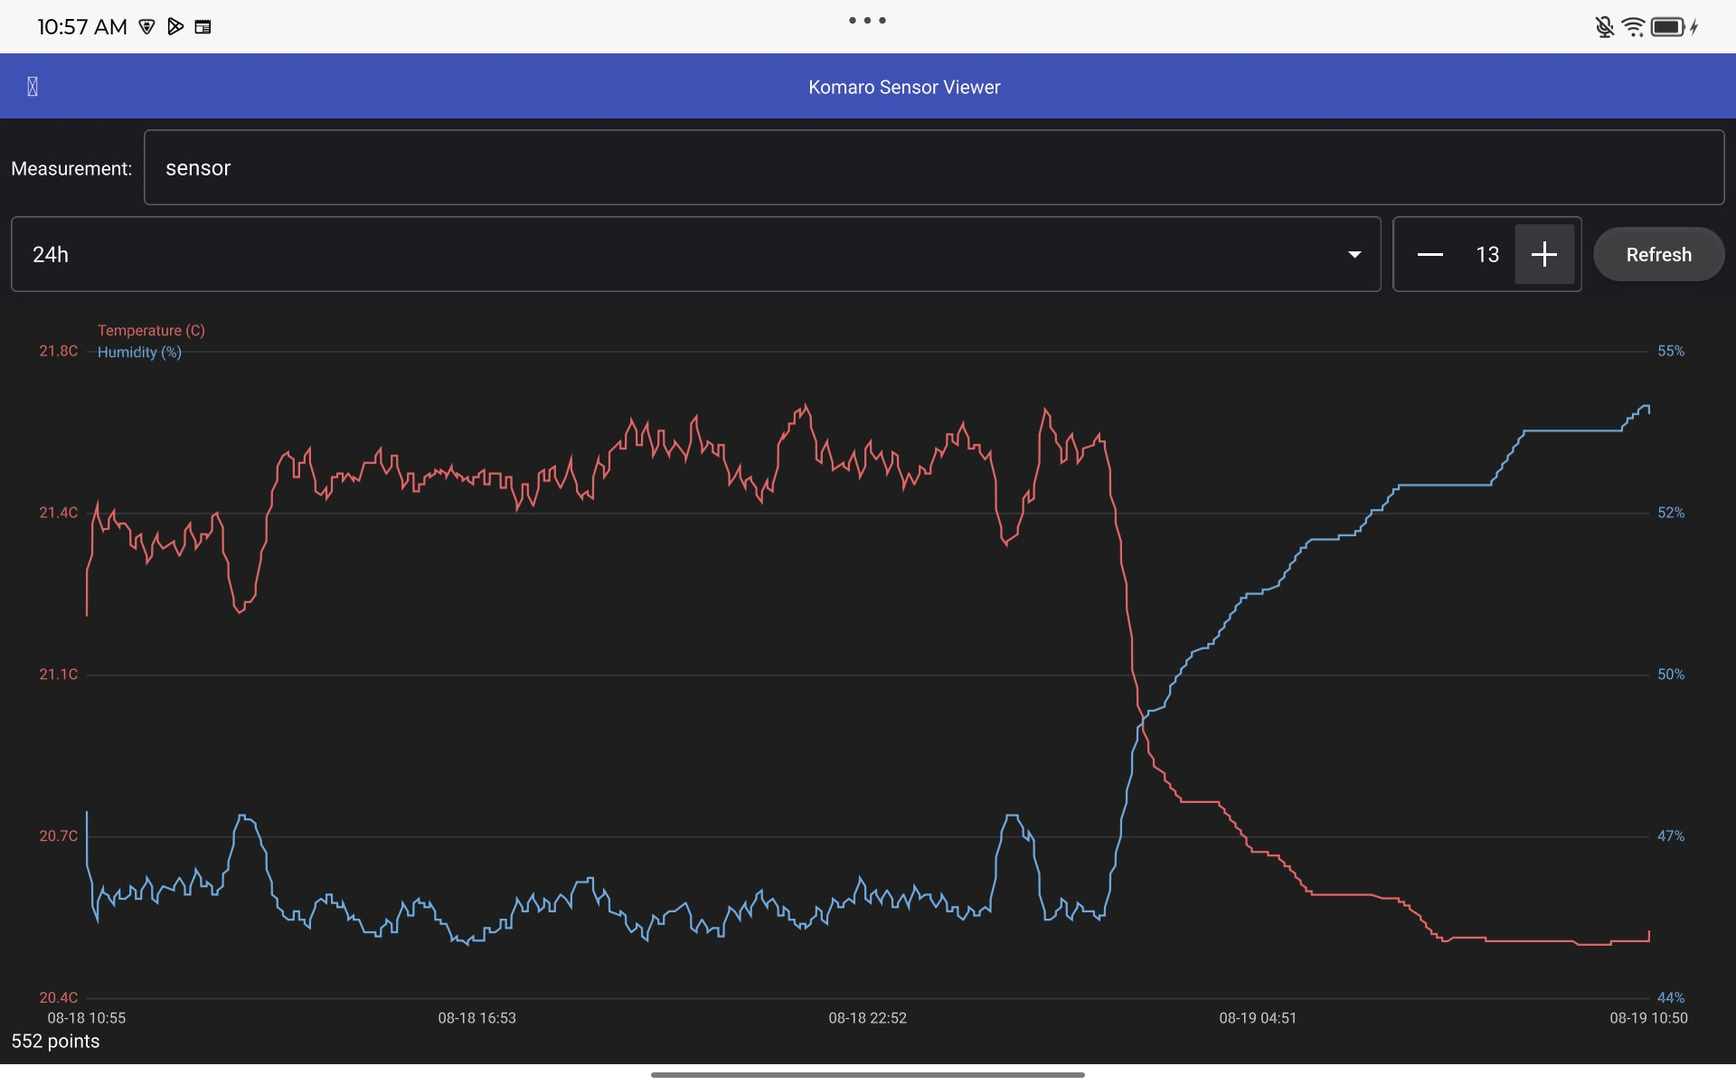
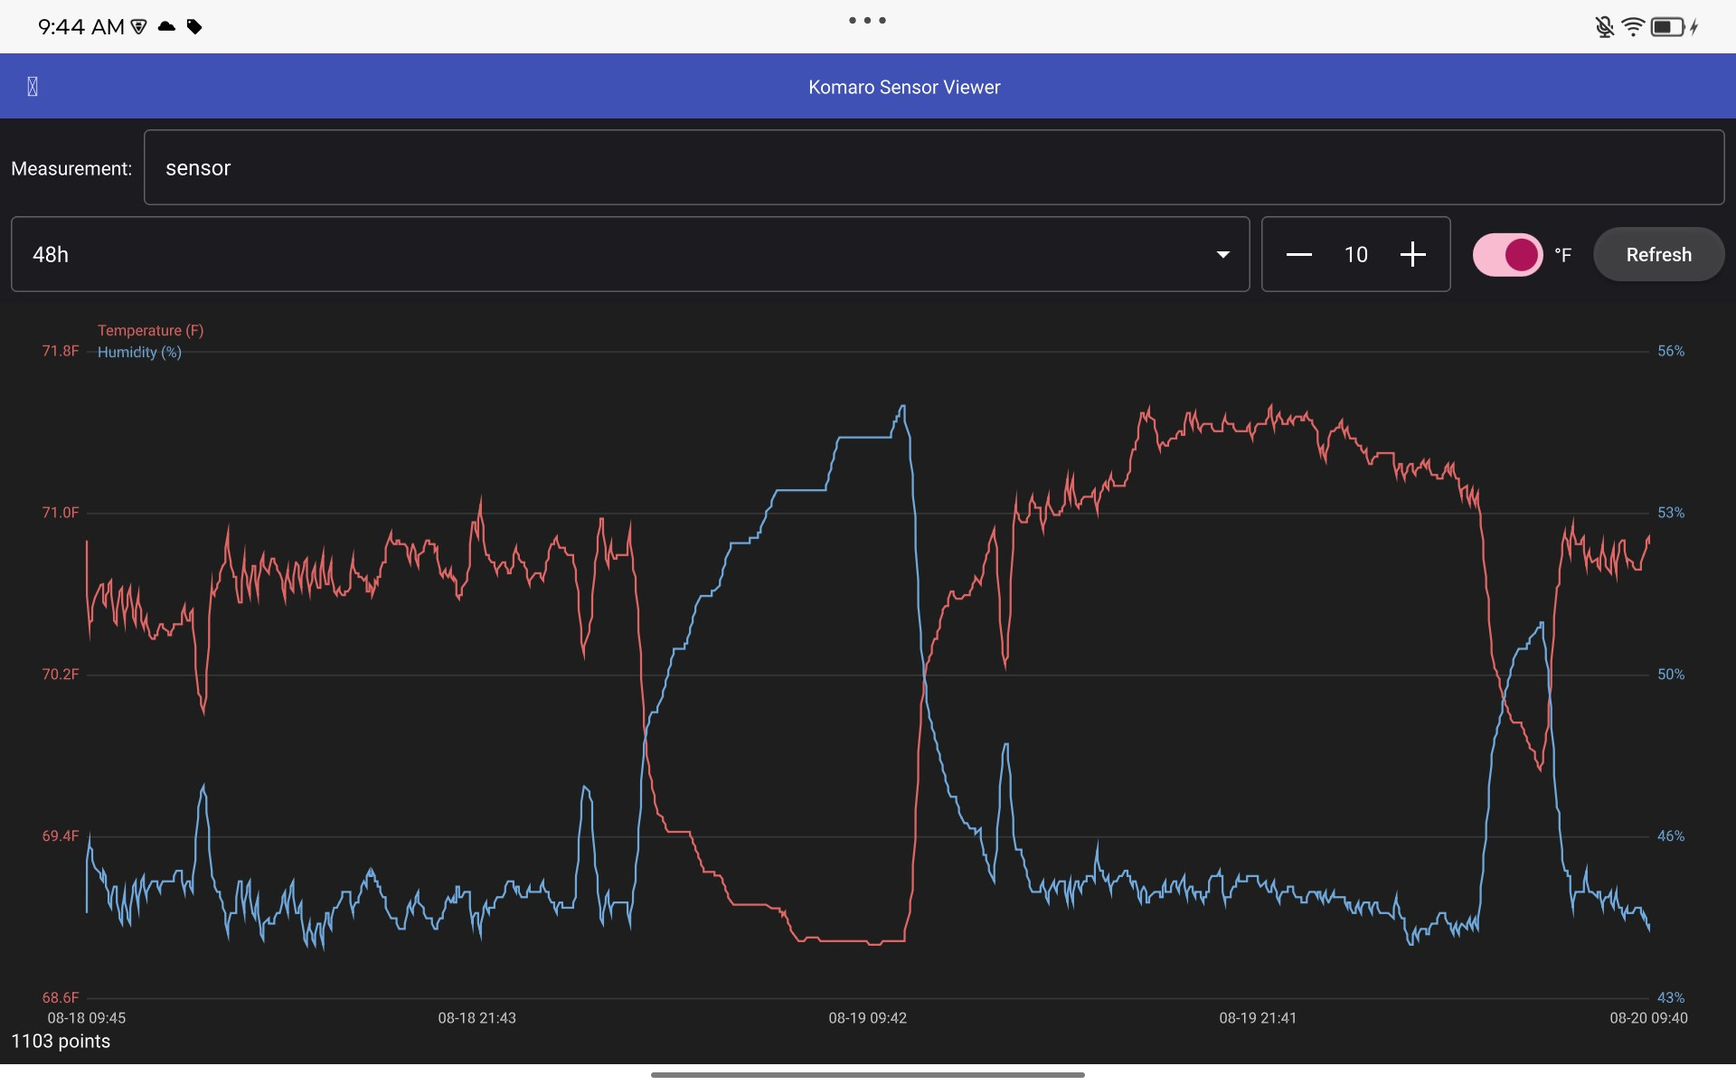
Add units toggle, persisted UI prefs, and Android build docs (#7)
- Add a 48h time-range option and a degC/degF units toggle to the chart toolbar (desktop + mobile)
- Persist time-range and units preferences across app restarts via QtCore's Settings
- Resolve QTP0004 CMake dev warnings across all three qml projects
- Add qml/KB.md: headless QML visual-verification technique, plus a deep-dive on how the Android build toolchain fits together
- Document linux-rpi preset usage and this session's gotchas in CLAUDE.md
- Verified end-to-end on a Lenovo Tab M11: rebuilt/reinstalled the Android APK, confirmed the new degF toggle against a live 48h/1103-point chart on-device

diff --git a/qml/core/qml/SensorChart.qml b/qml/core/qml/SensorChart.qml
@@ -8,6 +8,7 @@ Item {
     id: root
 
     property var points: []
+    property bool useFahrenheit: false
 
     readonly property color temperatureColor: "#e06666"
     readonly property color humidityColor: "#6fa8dc"
@@ -23,6 +24,8 @@ Item {
             return pad2(d.getMonth() + 1) + "-" + pad2(d.getDate()) + " " + pad2(d.getHours()) + ":"
                     + pad2(d.getMinutes())
         }
+
+        function celsiusToFahrenheit(c) { return c * 9 / 5 + 32 }
 
         function paddedRange(lo, hi) {
             if (hi - lo < 1e-6) {
@@ -83,9 +86,10 @@ Item {
                 ctx.stroke()
 
                 const tempValue = tempRange[1] - (g / gridLines) * (tempRange[1] - tempRange[0])
+                const displayTemp = root.useFahrenheit ? canvas.celsiusToFahrenheit(tempValue) : tempValue
                 ctx.fillStyle = root.temperatureColor
                 ctx.textAlign = "right"
-                ctx.fillText(tempValue.toFixed(1) + "C", marginLeft - 6, gy)
+                ctx.fillText(displayTemp.toFixed(1) + (root.useFahrenheit ? "F" : "C"), marginLeft - 6, gy)
 
                 const humidValue = humidRange[1] - (g / gridLines) * (humidRange[1] - humidRange[0])
                 ctx.fillStyle = root.humidityColor
@@ -127,7 +131,7 @@ Item {
             ctx.textAlign = "left"
             ctx.textBaseline = "top"
             ctx.fillStyle = root.temperatureColor
-            ctx.fillText(qsTr("Temperature (C)"), marginLeft + 8, 4)
+            ctx.fillText(qsTr("Temperature (%1)").arg(root.useFahrenheit ? "F" : "C"), marginLeft + 8, 4)
             ctx.fillStyle = root.humidityColor
             ctx.fillText(qsTr("Humidity (%)"), marginLeft + 8, 20)
         }
@@ -137,4 +141,5 @@ Item {
     }
 
     onPointsChanged: canvas.requestPaint()
+    onUseFahrenheitChanged: canvas.requestPaint()
 }

diff --git a/qml/mobile/qml/Main.qml b/qml/mobile/qml/Main.qml
@@ -2,6 +2,7 @@ import QtQuick
 import QtQuick.Controls
 import QtQuick.Controls.Material
 import QtQuick.Layouts
+import QtCore
 import KomaroCore
 
 ApplicationWindow {
@@ -17,6 +18,12 @@ ApplicationWindow {
         id: appActions
         onConnectRequested: connectDialog.open()
         onAboutRequested: aboutDialog.open()
+    }
+
+    Settings {
+        category: "chart"
+        property alias timeRangeIndex: timeRangeCombo.currentIndex
+        property alias useFahrenheit: unitsSwitch.checked
     }
 
     header: ToolBar {
@@ -109,8 +116,8 @@ ApplicationWindow {
                 ComboBox {
                     id: timeRangeCombo
                     Layout.fillWidth: true
-                    model: ["1h", "6h", "24h", "7d", "30d", "all"]
-                    currentIndex: 3
+                    model: ["1h", "6h", "24h", "48h", "7d", "30d", "all"]
+                    currentIndex: 4
                     onActivated: reloadChart()
                 }
                 SpinBox {
@@ -119,6 +126,10 @@ ApplicationWindow {
                     to: 200
                     value: 10
                     onValueModified: reloadChart()
+                }
+                Switch {
+                    id: unitsSwitch
+                    text: checked ? qsTr("°F") : qsTr("°C")
                 }
                 Button {
                     text: qsTr("Refresh")
@@ -138,6 +149,7 @@ ApplicationWindow {
                 anchors.fill: parent
                 anchors.margins: 8
                 points: chartController.points
+                useFahrenheit: unitsSwitch.checked
             }
 
             Label {

diff --git a/qml/desktop/qml/Main.qml b/qml/desktop/qml/Main.qml
@@ -1,6 +1,7 @@
 import QtQuick
 import QtQuick.Controls
 import QtQuick.Layouts
+import QtCore
 import KomaroCore
 
 ApplicationWindow {
@@ -14,6 +15,12 @@ ApplicationWindow {
         id: appActions
         onConnectRequested: connectDialog.open()
         onAboutRequested: aboutDialog.open()
+    }
+
+    Settings {
+        category: "chart"
+        property alias timeRangeIndex: timeRangeCombo.currentIndex
+        property alias useFahrenheit: unitsSwitch.checked
     }
 
     menuBar: MenuBar {
@@ -55,8 +62,8 @@ ApplicationWindow {
             Label { text: qsTr("Range:") }
             ComboBox {
                 id: timeRangeCombo
-                model: ["1h", "6h", "24h", "7d", "30d", "all"]
-                currentIndex: 3
+                model: ["1h", "6h", "24h", "48h", "7d", "30d", "all"]
+                currentIndex: 4
                 onActivated: reloadChart()
             }
             Label { text: qsTr("Smoothing:") }
@@ -66,6 +73,11 @@ ApplicationWindow {
                 to: 200
                 value: 10
                 onValueModified: reloadChart()
+            }
+            Label { text: qsTr("Units:") }
+            Switch {
+                id: unitsSwitch
+                text: checked ? qsTr("°F") : qsTr("°C")
             }
             Button {
                 text: qsTr("Refresh")
@@ -85,6 +97,7 @@ ApplicationWindow {
                 anchors.fill: parent
                 anchors.margins: 8
                 points: chartController.points
+                useFahrenheit: unitsSwitch.checked
             }
 
             Label {

diff --git a/qml/mobile/src/main.cpp b/qml/mobile/src/main.cpp
@@ -11,6 +11,13 @@ int main(int argc, char *argv[])
     QQuickStyle::setStyle("Material");
 
     QGuiApplication app(argc, argv);
+    // Matches ConnectionManager's QSettings(..., "Komaro", "QmlApp") org/app
+    // scope, so Main.qml's QtCore Settings (UI-preference persistence) lands
+    // in the same ~/.config/Komaro/ directory rather than a default-named
+    // one. Not literally the same file: QtCore's Settings uses NativeFormat
+    // (QmlApp.conf) while ConnectionManager forces IniFormat (QmlApp.ini).
+    QCoreApplication::setOrganizationName(QStringLiteral("Komaro"));
+    QCoreApplication::setApplicationName(QStringLiteral("QmlApp"));
 
     QQmlApplicationEngine engine;
     QObject::connect(

diff --git a/qml/desktop/src/main.cpp b/qml/desktop/src/main.cpp
@@ -8,6 +8,13 @@
 int main(int argc, char *argv[])
 {
     QGuiApplication app(argc, argv);
+    // Matches ConnectionManager's QSettings(..., "Komaro", "QmlApp") org/app
+    // scope, so Main.qml's QtCore Settings (UI-preference persistence) lands
+    // in the same ~/.config/Komaro/ directory rather than a default-named
+    // one. Not literally the same file: QtCore's Settings uses NativeFormat
+    // (QmlApp.conf) while ConnectionManager forces IniFormat (QmlApp.ini).
+    QCoreApplication::setOrganizationName(QStringLiteral("Komaro"));
+    QCoreApplication::setApplicationName(QStringLiteral("QmlApp"));
 
     QQmlApplicationEngine engine;
     QObject::connect(

diff --git a/qml/KB.md b/qml/KB.md
@@ -1,0 +1,82 @@
+# qml Knowledge Base
+
+Notes on QML/Qt topics for this project that don't belong in `README.md` (which covers what the app *is*, not how to work on it).
+
+## Visually verifying a QML component without running the full app
+
+Useful when a change touches rendering (e.g. a `Canvas`-based chart) and you want to confirm actual pixels, not just that the code compiles.
+
+**Problem:** `komaro_qml_desktop`/`komaro_qml_mobile` need a live InfluxDB connection to populate the chart with real data. Waiting on that (or mocking the whole app) is overkill for checking a label or a layout tweak.
+
+**Technique:**
+
+1. **Isolate the component if it has no C++ dependency.** `core/qml/SensorChart.qml` only does `import QtQuick` — no dependency on `ChartController`/`InfluxDbClient` or any C++-registered QML type. That means it can be loaded standalone, outside the app, by pointing an `import` at its directory via a `file:` URL (plain absolute paths aren't valid QML import URLs):
+   ```qml
+   import "file:/home/yyk/src/komaro/qml/core/qml"
+   ```
+
+2. **Write a tiny harness QML file, not a unit test.** Feed the component's public property directly with hardcoded sample data — the same interface `ChartController.points` would populate at runtime:
+   ```qml
+   import QtQuick
+   import QtQuick.Window
+   import "file:/home/yyk/src/komaro/qml/core/qml"
+
+   Window {
+       width: 900; height: 500; visible: true
+       SensorChart {
+           id: content
+           anchors.fill: parent
+           points: [ {time: 1700000000000, temperatureC: -5.0, humidity: 40}, /* ... */ ]
+       }
+       Timer {
+           interval: 700; running: true
+           onTriggered: content.grabToImage(result => {
+               result.saveToFile("/tmp/chart_screenshot.png")
+               Qt.quit()
+           })
+       }
+   }
+   ```
+
+3. **Run it headless with `qml` + `xvfb-run`.** `qml` is Qt's QML runtime tool (`qtbase/bin/qml`, ships alongside `qmlscene`/`qmllint`/`qmlformat`) — it loads and executes a `.qml` file directly, no compiled C++ host app needed. `xvfb-run` supplies a virtual X display in a headless environment; Qt Quick still does real rendering into that virtual framebuffer, so the output is genuine paint output, not a mock:
+   ```bash
+   export LD_LIBRARY_PATH=/path/to/qtbase/lib:$LD_LIBRARY_PATH
+   xvfb-run -a /path/to/qtbase/bin/qml chart_harness.qml
+   ```
+
+4. **Capture pixels, not logs.** `Item.grabToImage()` renders the item's actual `Canvas` output to a `QQuickItemGrabResult` and writes a PNG. Give `Canvas.onPaint` time to run before grabbing (a short `Timer` delay) — grabbing on the same tick the window becomes visible risks capturing a blank frame.
+
+5. **Inspect the PNG directly.** Read the screenshot back and check it visually — label text, layout, clipping, overlap — the way a human reviewer would, rather than trusting that "no errors were logged" means it looks right.
+
+6. **Spot-check one computed value numerically.** Visual inspection catches gross bugs; picking one data point and manually recomputing the expected value (e.g. a Celsius→Fahrenheit conversion from the *unrounded* source number) catches subtler bugs like rounding artifacts or off-by-one errors that look fine at a glance.
+
+**Why this over alternatives:**
+- A GTest/unit test calling the paint function in isolation never actually renders anything — it can't catch a layout/clipping bug.
+- Running the full app requires a reachable InfluxDB server just to get non-empty `points`, which is unrelated to what's being verified.
+- This works for *any* QML file with no C++ type dependencies — swap the hardcoded `points` for whatever properties the component under test exposes.
+
+**Caveats:**
+- Only works standalone for QML files that don't reference C++-registered types (`QML_ELEMENT` classes, context properties like `connectionManager`/`chartController`). Components that do need those would require either registering stub types in the harness or running through the real app.
+- The `qml` runtime tool must come from the *same* Qt build used to compile the app (mixing a system Qt's `qml` binary with a self-built Qt's plugins will fail to load or behave inconsistently) — set `LD_LIBRARY_PATH` accordingly.
+
+## Android build: how the toolchain pieces fit together
+
+`mobile/README.md` has the quick-reference command sequence. This is the *why* behind it — worth knowing before touching `mobile/CMakePresets.json`'s `android-arm64` preset or debugging a build failure, since an Android build here is really four independent toolchains chained together, each with its own job.
+
+**The pieces and their roles:**
+
+- **Qt's Android kit** (`E:\qt6\6.8.3\android_arm64_v8a`) — Qt's own libraries (`Qt6Core`, `Qt6Quick`, ...) precompiled *for* Android/arm64, plus the CMake glue (`lib/cmake/Qt6/qt.toolchain.cmake`) that turns a normal `qt_add_executable()` project into a cross-compiling one. This is what `CMAKE_PREFIX_PATH` and `CMAKE_TOOLCHAIN_FILE` point at in the preset.
+- **The NDK** (r26b, `ANDROID_NDK_ROOT`) — the actual C++ cross-compiler (`clang++` targeting `aarch64-none-linux-android28`) and Android's C/C++ system headers/libs (`libc`, `EGL`, `GLESv2`, ...). Qt's toolchain file doesn't compile anything itself; it *chainloads* the NDK's own `build/cmake/android.toolchain.cmake`, which is what actually sets up the compiler.
+- **`QT_HOST_PATH`** (pointing at `msvc2022_64`) — Qt's build-time code generators (`moc`, `rcc`, `qmlcachegen`, the QML type registrar) are ordinary Windows x64 tools; they process source *at build time* on the host, they don't run on the Android device. Cross-compiling Qt needs a *native* Qt install to supply these, separate from the *target* Qt libraries the app links against. Without `QT_HOST_PATH`, CMake can't find them and configure fails.
+- **The Android SDK** (`platform-tools`, `build-tools;35.0.0`, `platforms;android-35`) — not needed to compile C++ at all. It's Google's *packaging* toolchain: `aapt2` compiles resources/manifest into the APK's binary XML, `d8`/`dexer` and friends turn any Java/Kotlin bytecode (from Qt's small Android Java shim + AndroidX support libraries) into `classes.dex`, `apksigner` signs the result, and `adb` (in `platform-tools`) is the device-communication protocol used to install/launch/debug on a real device.
+- **Gradle + a JDK** — Qt's CMake integration doesn't invoke `aapt2`/`d8` directly; it generates a small Gradle project (`androiddeployqt`'s output, in `build/android-arm64/android-build/`) and lets the **Android Gradle Plugin** (a normal Gradle build, downloaded on first run) drive the actual packaging. Gradle itself needs a JDK to run (not to compile our C++ — that's already done by this point).
+- **`androiddeployqt`** (ships in the *host* Qt kit's `bin/`, i.e. `msvc2022_64\bin\androiddeployqt.exe`, not the Android kit's) — the glue script that reads a `<target>-deployment-settings.json` CMake generates, copies the cross-compiled `.so` and Qt's own Android runtime Java classes into the Gradle project skeleton, and invokes Gradle. This is what `cmake --build build/android-arm64 --target apk` ultimately runs (see the `${target}_make_apk` custom target Qt's CMake macros add).
+
+**Build-time flow:** `cmake --preset android-arm64` configures using the NDK's `clang++` (via Qt's chainloaded toolchain file) → `cmake --build --target apk` compiles `komaro_core`/`komaro_core_qml`/`komaro_qml_mobile` into a single `libkomaro_qml_mobile_arm64-v8a.so` → `androiddeployqt` (host Qt tool) assembles the Gradle project skeleton around it → Gradle (JDK-driven) resolves AndroidX dependencies, dexes, packages, and signs → `android-build-debug.apk` lands in `build/android-arm64/android-build/build/outputs/apk/debug/`.
+
+**Gotchas, and the mechanism behind each:**
+
+- **Space-containing install paths silently break everything.** `sdkmanager.bat` (and Gradle's own bootstrapping) build a Java command line internally without quoting `%JAVA_HOME%`/`%~dp0` consistently on Windows; a path like `C:\Program Files (x86)\Android\android-sdk` gets split at the space and Java fails with `Error: Could not find or load main class Files`. This isn't a permissions issue (though `Program Files (x86)` *also* blocks non-elevated writes, a second independent reason to avoid it) — it reproduces even for a JDK under `C:\Program Files\...`. Fix: install the SDK/NDK and JDK (or junction them) to a path with no spaces anywhere in it, e.g. `C:\Users\<you>\android-sdk`.
+- **`androiddeployqt` picks whatever's the highest *installed* SDK platform, not what AndroidX needs.** It doesn't consult Gradle/AndroidX at all when choosing `compileSdkVersion` — it just uses the newest `platforms;android-N` present in `ANDROID_SDK_ROOT`. If that's too old, the *Gradle* step fails later, deep into `:checkDebugAarMetadata`, with "Dependency 'androidx.core:core:1.13.1' requires ... compile against version 34 or later" — a completely different tool than the one that picked the platform in the first place, which makes the error confusing to trace back. Qt 6.8.3's bundled AndroidX libraries need `platforms;android-35` (as of this Qt version); install it even though the NDK's own `ANDROID_PLATFORM` default (`android-28`, in `qdevice.pri`) is much lower — that one controls the *NDK* API level (what device OS versions the native code can run on), a separate knob from Gradle's *compileSdk*.
+- **`Qt6::qmake` is the host kit's qmake when cross-compiling**, not the Android kit's (Android's kit doesn't ship a usable one for this purpose). `mobile/CMakeLists.txt`'s `windeployqt` post-build step derives its search path from `Qt6::qmake`'s location, so without an `if(NOT ANDROID)` guard it happily finds and runs the *desktop* `windeployqt.exe` against the Android `.so` — which fails confusingly (`DOS header check failed`, because it's trying to parse an ELF binary as if it were a PE/DLL).
+- **A connected device won't show up in `adb devices` if its USB mode is "Charging only"**, even with USB debugging enabled in Developer options — the ADB interface is only exposed as part of the MTP/PTP composite USB configuration, not the bare charging one. Confirmed on a Lenovo Tab M11 via `Get-PnpDevice`: with USB debugging on but the device in charging-only mode, Windows registered it as a `CM_PROB_PHANTOM` (present: false) WPD/MTP entry — it *looked* like a driver problem but was actually just the wrong USB mode. Switching the device to File Transfer fixed it immediately.

diff --git a/CLAUDE.md b/CLAUDE.md
@@ -25,7 +25,7 @@ KOMARO is an environmental sensor data retrieval project. It communicates with a
 
 ### qml/ - Qt6/QML sensor viewer (desktop + Android)
 
-A C++/QML app that queries InfluxDB and charts temperature/humidity, mirroring `nano/plot_sensor.py`. Three CMake projects, each with its own `CMakePresets.json`:
+A C++/QML app that queries InfluxDB and charts temperature/humidity, mirroring `nano/plot_sensor.py`. Three CMake projects, each with its own `CMakePresets.json`. See `qml/KB.md` for QML/Qt topics (e.g. the headless visual-verification technique used to check chart rendering) that don't fit `README.md`.
 
 - `qml/core/` - static libs shared by both shells, no UI of its own:
   - `komaro_core` - `InfluxResponseParser`, `InfluxDbClient` (async `QNetworkAccessManager`), `RecentServers`, `MovingAverage`, `ChartController`, `ConnectionManager`, `SensorPoint`. GTest suite in `tests/` (`BUILD_TESTS` cache var, default `ON`).
@@ -37,9 +37,9 @@ Build/test (see `qml/README.md`, `qml/core/README.md`, `qml/mobile/README.md` fo
 
 ```
 cd qml/desktop   # or qml/core, qml/mobile
-cmake --preset windows-msvc
-cmake --build --preset windows-msvc-debug
-ctest --preset windows-msvc-debug
+cmake --preset windows-msvc      # or linux-rpi on the Raspberry Pi dev box
+cmake --build --preset windows-msvc-debug     # or linux-rpi-debug
+ctest --preset windows-msvc-debug             # or linux-rpi-debug
 ```
 
 Android build (`qml/mobile` only): `cmake --preset android-arm64 && cmake --build build/android-arm64 --target apk`. Requires the Android SDK/NDK to live under a **space-free path** (`sdkmanager.bat` and Gradle packaging both break under `Program Files (x86)`), NDK r26b (must match `android_arm64_v8a/mkspecs/qdevice.pri`), and `platforms;android-35`+ (Qt's bundled AndroidX deps need compileSdk >= 34).
@@ -49,6 +49,8 @@ Non-obvious build gotchas worth knowing before touching `qml/core/CMakeLists.txt
 - `komaro_core_qml` is a separate target from `komaro_core` (not `qt_add_qml_module` attached to an existing lib) - otherwise the generated QML plugin doesn't propagate to consumers.
 - `ConnectionManager`/`ChartController` are exposed via `QQmlContext::setContextProperty` (in each app's `main.cpp`), not `QML_ELEMENT` - see `qml/core/README.md` for why.
 - The `windeployqt` post-build step in `qml/mobile/CMakeLists.txt` is guarded with `if(NOT ANDROID)` - `Qt6::qmake` resolves to the *host* Qt kit under the Android toolchain, so without the guard it runs against the Android `.so` and fails.
+- `qt_add_qml_module` needs `qt_policy(SET QTP0004 NEW)` set beforehand in all three `CMakeLists.txt` - each project's `QML_FILES` live under a `qml/` subdirectory of the module's resource root, which Qt 6.8+ otherwise warns about wanting to treat as an "extra" importable sub-namespace.
+- Persisted UI prefs (e.g. `desktop/qml/Main.qml`'s time-range/units `Settings {}` block) use the `QtCore` QML module, not the deprecated `Qt.labs.settings` - it needs `QCoreApplication::setOrganizationName("Komaro")`/`setApplicationName("QmlApp")` set in each app's `main.cpp` to land under the same `~/.config/Komaro/` directory as `ConnectionManager`'s `QSettings` (a different file though: `QmlApp.conf`/`NativeFormat` vs `ConnectionManager`'s explicit `QmlApp.ini`/`IniFormat`).
 
 ## Running
 
@@ -77,6 +79,8 @@ py -m venv .venv
 The project uses mosquitto (MQTT), InfluxDB, and Telegraf for the data pipeline. See README.md for install instructions.
 
 For `qml/` on this Windows dev machine: Qt 6.8.3 at `E:\qt6\6.8.3\` (`msvc2022_64`, `android_arm64_v8a`, etc.), vcpkg at `G:\opt\vcpkg` (GTest only), Android SDK/NDK at `C:\Users\<user>\android-sdk` (deliberately not under `Program Files`), JDK 17 for Gradle.
+
+For `qml/` on the Raspberry Pi Linux dev box (the `linux-rpi` preset): Ninja Multi-Config against a self-built Qt 6.11.1 tree at `/home/yyk/Downloads/qt-everywhere-src-6.11.1/qtbase` (set via `CMAKE_PREFIX_PATH` in the preset, not a system Qt), GTest via the `libgtest-dev` apt package. `windeployqt` doesn't exist on Linux, so the post-build deploy step just no-ops with a warning - fine, since nothing packages this build for distribution.
 
 ## Git
 

diff --git a/qml/README.md b/qml/README.md
@@ -18,7 +18,7 @@ Mobile (`ToolBar`+`Drawer` shell, run in desktop mode):
 
 ![Mobile sensor viewer](screenshots/mobile-sensor-viewer.JPG)
 
-Mobile, running as a real Android APK on a Lenovo Tab M11, showing a live 24h chart (552 points) queried from InfluxDB on-device:
+Mobile, running as a real Android APK on a Lenovo Tab M11, showing a live 48h chart (1103 points) queried from InfluxDB on-device, with the °F units toggle enabled:
 
 ![Android tablet sensor viewer](screenshots/android-tablet-sensor-viewer.JPG)
 
